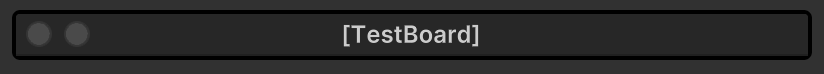
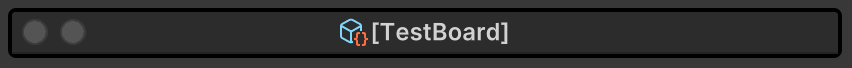
Updated README and images

Changed region(s): [[0.0, 0.1176, 1.0, 0.8529], [0.3944, 0.2647, 0.6068, 0.6765]]

diff --git a/README.md b/README.md
@@ -134,6 +134,7 @@ This field is located at the upper right corner and allows you to assign a refer
 
 ### Zoom Controls
 The Zoom controls are located at the bottom left corner of the main window and give you control of the scale of the visualization. The zoom level is controlled by the slider and the reset button will reset the zoom to 1.
+
 ![Zoom Controls](.docs/ZoomControls.png)
 
 ## Inspector Window
@@ -173,6 +174,8 @@ The following information is displayed next to the object name:
 * Number of references from the object in the graph
 
 Hovering over the stats will display more detailed information about the references.
+
+![Window - Quick Stats](.docs/InspectorWindow-QuickStats.png)
 
 > Note: If there are more than one references from/to a single object to/from the object represented in the window, the total number of unique references will be displayed in brackets (Example: `[Unique 5]`).
 
